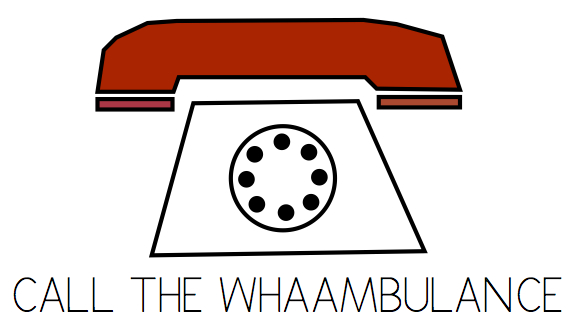
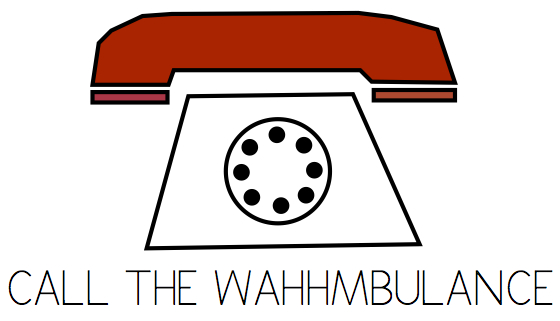
New call.jpg with correct spelling

Changed region(s): [[0.1518, 0.0312, 0.8196, 0.81], [0.2125, 0.8411, 1.0, 0.9657], [0.0, 0.8411, 0.2125, 0.9657]]

diff --git a/app/assets/stylesheets/application.css b/app/assets/stylesheets/application.css
@@ -23,7 +23,8 @@ body {
 
 .header .call {
   float: right;
-  height: 110px;
+  height: 103px;
+  margin-right: 10px;
 }
 
 /* NEW WHINE PAGE */
